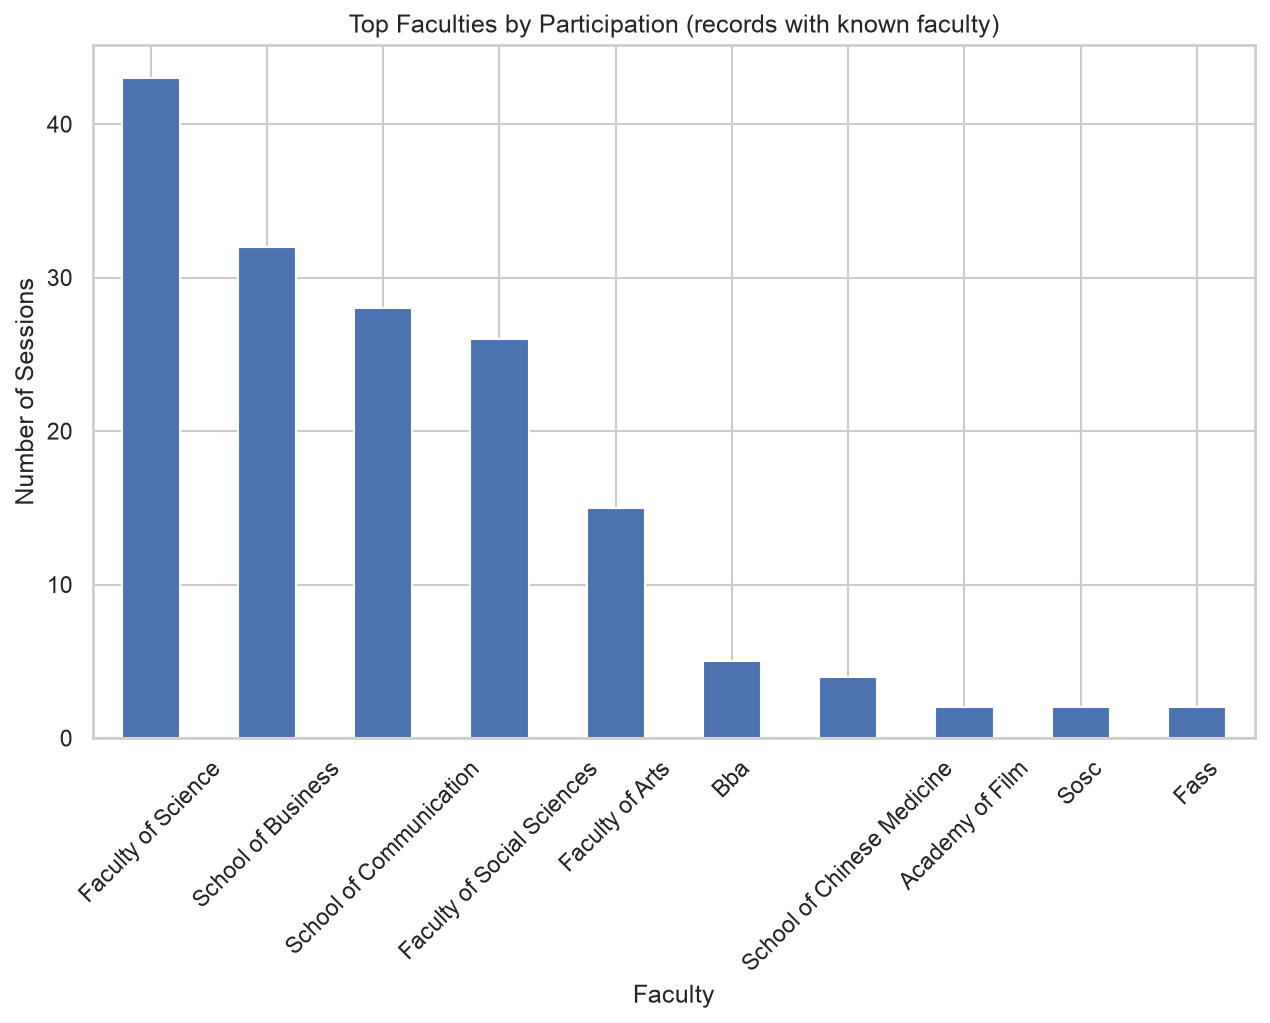
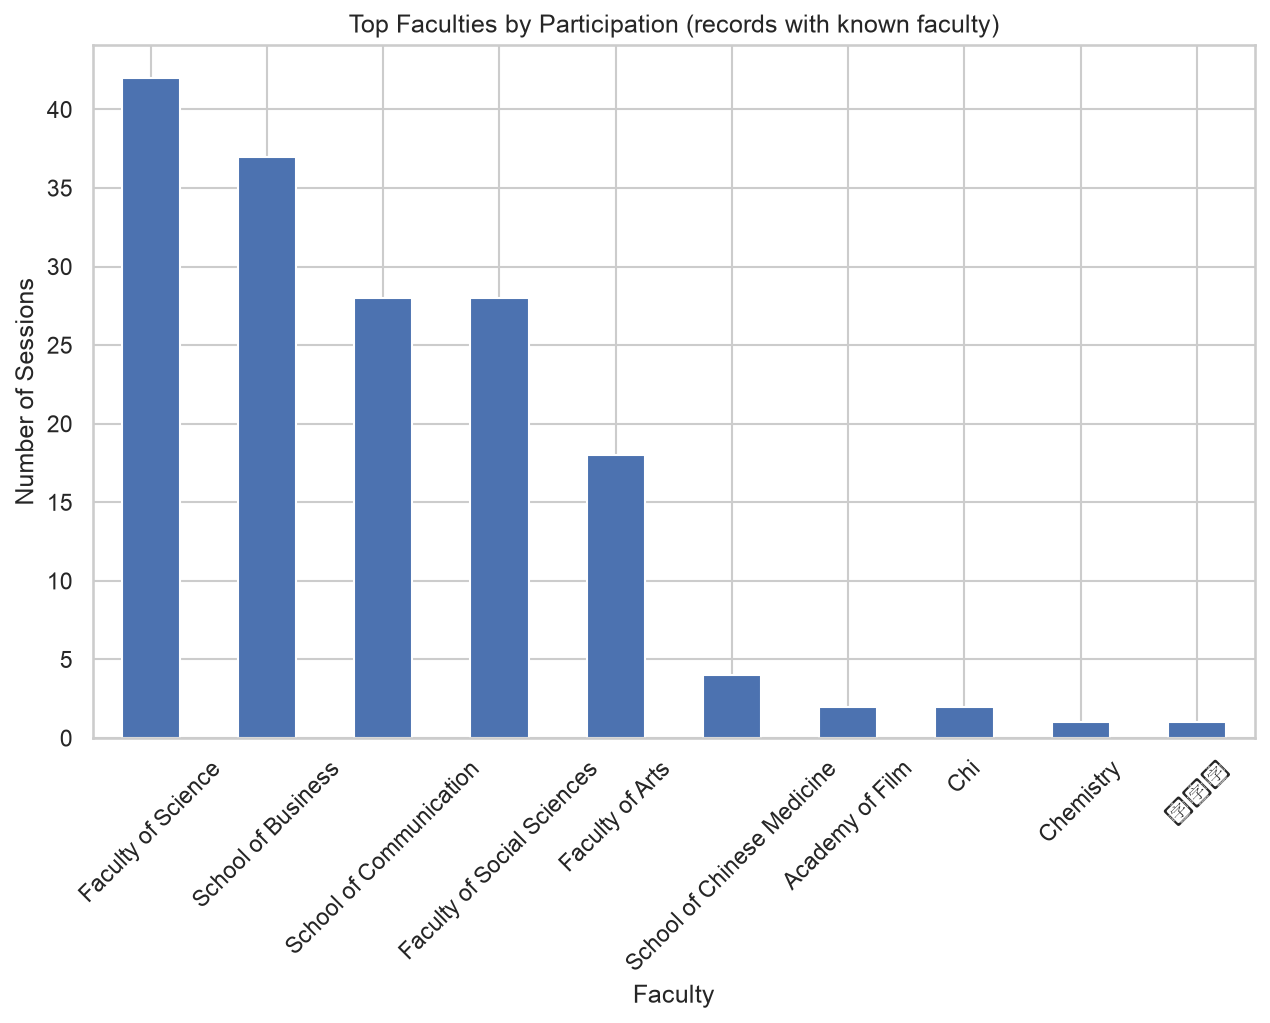
Normalize faculty abbreviations (Bba, Sosc, Fass)

diff --git a/index.html b/index.html
@@ -95,7 +95,7 @@
 <body>
     <header>
         <h1>LC Attendance Analytics Report</h1>
-        <div class="subtitle">Generated on 2026-08-21 09:50</div>
+        <div class="subtitle">Generated on 2026-08-21 09:52</div>
         <div class="subtitle">Data source: Local attendance records (anonymized)</div>
         <a class="download-btn" href="LC_Attendance_Report.pdf" download>⬇ Download PDF Report</a>
     </header>
